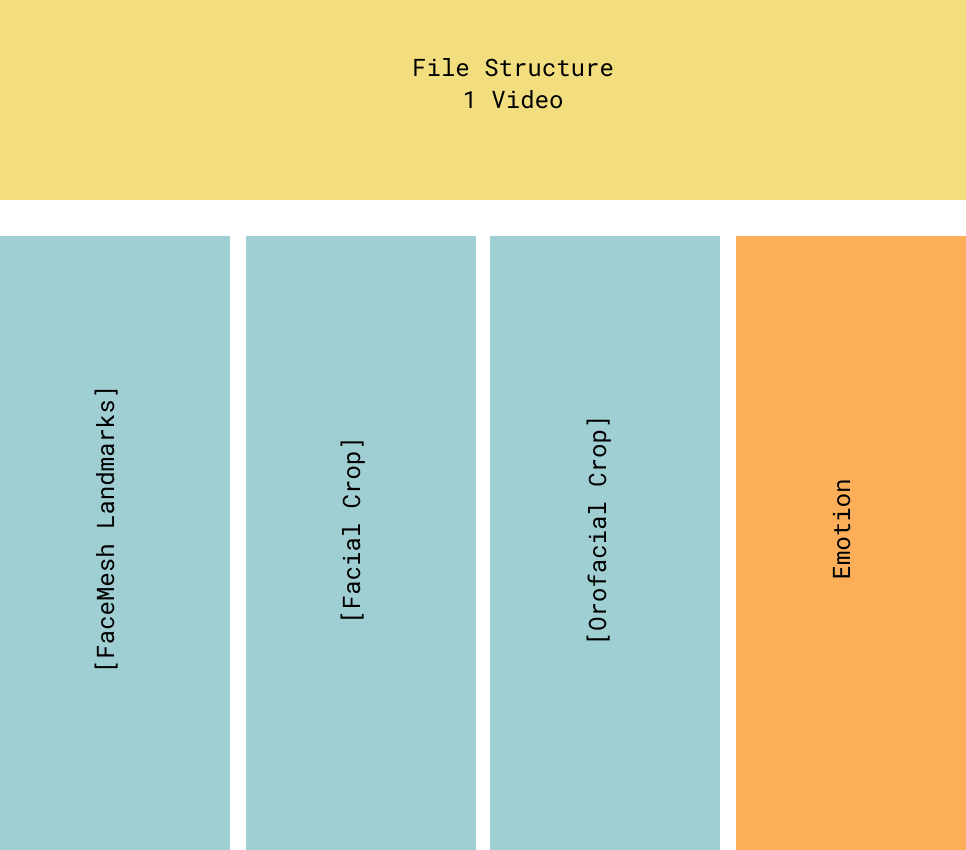
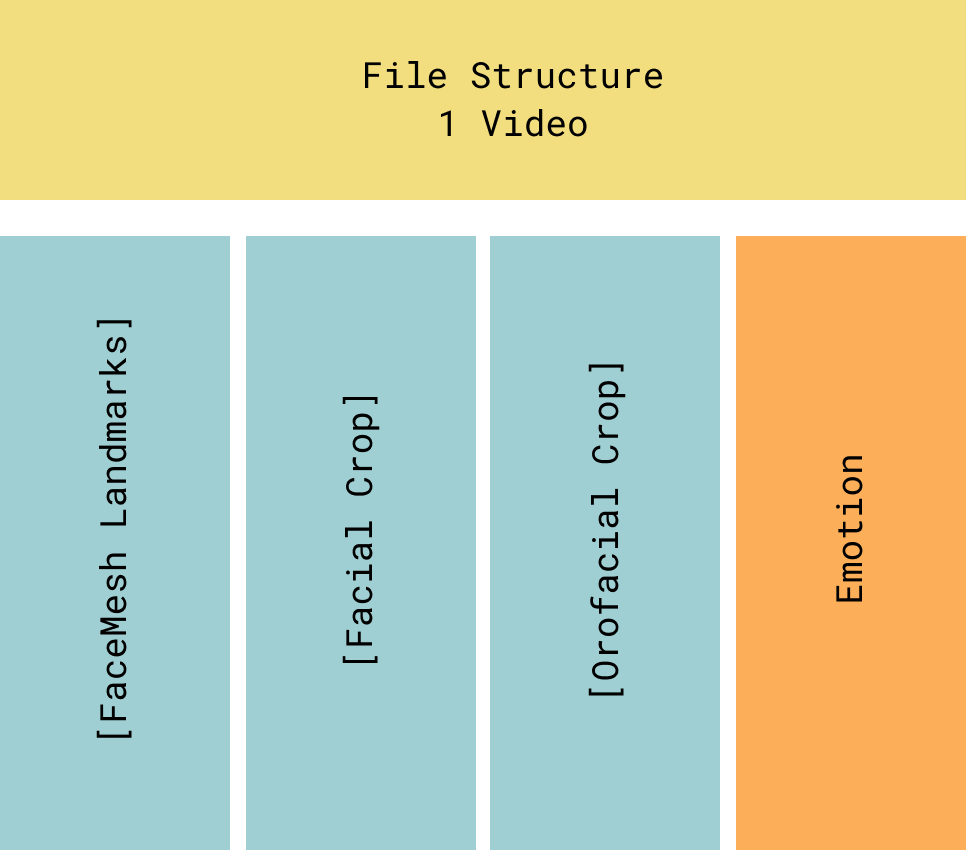
Updates from Overleaf

diff --git a/chapters/related.tex b/chapters/related.tex
@@ -54,7 +54,7 @@ Pooling layers are used to decrease the size of the layers and create a more eff
 
 \begin{figure}
     \centering
-    \includegraphics{res/pooling.pdf}
+    \includegraphics[width=0.8\textwidth]{res/png_backup/pool.png}
     \caption{An example of a MaxPooling layer working on the left matrix with a window size of 2 x 2 and a stride of 2, producing the matrix on the right.}
     \label{fig:pooling}
 \end{figure}
@@ -130,7 +130,7 @@ Deep learning models can further be divided into two categories. The first one o
 
 \begin{figure}
     \centering
-    \includegraphics[width=0.8\textwidth]{res/PipelinePrototype.pdf}
+    \includegraphics[width=0.8\textwidth]{res/png_backup/mfa.png}
     \caption{An example of a FER pipeline. After extracting landmarks from the target image, models try to extract features from the given landmarks. These can be used to detect an emotion from the input.}
     \label{fig:pipeline_fer}
 \end{figure}
@@ -142,7 +142,7 @@ The content of an act of speech can be segmented into words, syllables, and \emp
 
 \begin{figure}
     \centering
-    \includegraphics[width=0.8\textwidth]{res/phone_ex.pdf}
+    \includegraphics[width=0.8\textwidth]{res/png_backup/phoneex.png}
     \caption{A visual example of three phonemes being spoken. Their occurrence in the sentence is highlighted by their respective colour.}
     \label{fig:phoneme_ex}
 \end{figure}
@@ -194,7 +194,7 @@ We will use the MFA to align our datasets and to get a precise phoneme-to-video 
 
 \begin{figure}
     \centering
-    \includegraphics[width=0.5\textwidth]{res/mfa.pdf}
+    \includegraphics[width=0.5\textwidth]{res/png_backup/mfapipeline.png}
     \caption{A pipeline of a classic use of the MFA. An audio file, together with its transcript gets fed into the MFA. The output of the aligner is a \texttt{TextGrid} file that contains timestamp information about word and phoneme occurrence in the input audio file.}
     \label{fig:mfa}
 \end{figure}
@@ -326,7 +326,7 @@ Given that this approach requires facial landmarks and artificial mesh alrorithm
 
 \subsubsection{Lexical Compensation with LipNet}
 \label{sub:lip}
-Bursic et al. \cite{bursic2020improving} created a NN centered around lexical compensation using LipNet. While they present several approaches in their paper, we are most interested in their Lip Model, which is build by merging a LipNet embedding with an embedding of a classic VGG19 FER model. The models have also been temporalized, with several different frame batches ranging from 5 to 65 frames. Their best performing Lip Model was set at 60 frames per prediction, reaching an accuracy of 59.4\%. In comparison, the face-only RNN model that does not include lexical compensation from LipNet reached it's best accuracy at 40 frames and 48.5\%.
+Bursic et al. \cite{bursic2020improving} created a NN centered around lexical compensation using LipNet. While they present several approaches in their paper, we are most interested in their Lip Model, which is build by merging a LipNet embedding with an embedding of a classic VGG19 FER model (Figure \ref{fig:bursic_schema}). The models have also been temporalized, with several different frame batches ranging from 5 to 65 frames. Their best performing Lip Model was set at 60 frames per prediction, reaching an accuracy of 59.4\%. In comparison, the face-only RNN model that does not include lexical compensation from LipNet reached it's best accuracy at 40 frames and 48.5\%.
 
 The dataset used in this paper was RAVDESS, using the core emotions from Ekman, ignoring \emph{calm}. This makes for a good comparison to our models.
 
@@ -349,7 +349,7 @@ We will use a similar feature extractor in our experiments. Since Salman and Bus
 
 \begin{figure}
     \centering
-    \includegraphics[width=0.8\textwidth]{res/BussoSE.pdf}
+    \includegraphics[width=0.8\textwidth]{res/png_backup/styleexbusso.png}
     \caption{The schema of Salman and Busso's lexical compensator. An emotional mesh is the input to a NN, producing a neutral output mesh alongside a phoneme prediction. The difference of the input mesh and the output mesh extracts the facial movements that are produced by the emotional state of the subject.}
     \label{fig:bussose}
 \end{figure}

diff --git a/chapters/models.tex b/chapters/models.tex
@@ -18,7 +18,7 @@ To have a comparison between frame sizes and an estimation of the importance of 
 
 \begin{figure}
     \centering
-    \includegraphics[width=0.8\textwidth]{res/temporalization.pdf}
+    \includegraphics[width=0.8\textwidth]{res/png_backup/temporalisation.png}
     \caption{Temporalizing an FER model. The existing model gets wrapped in a TimeDimensional layer. That way the model produces $n$ embeddings for $n$ inputs.}
     \label{fig:temporalization}
 \end{figure}
@@ -44,7 +44,7 @@ The dataset used to train this model, like in the original paper, was CREMA-D.
 
 \begin{figure}
     \centering
-    \includegraphics[width=0.5\textwidth]{res/FExtractor.pdf}
+    \includegraphics[width=0.5\textwidth]{res/png_backup/styleex.png}
     \caption{The architecture of our final feature extractor. The emotional input mesh of a subject speaking a given phoneme $p$ gets passed to a densely connected hidden layer with 128 neurons. The output of the network is a prediction of a neutral mesh of the actor pronouncing the same phoneme $p$.}
     \label{fig:fextractor}
 \end{figure}
@@ -70,7 +70,7 @@ We end up with three main architectures, which we will train, validate, and comp
 
 \begin{figure}
     \centering
-    \includegraphics[width=0.7\textwidth]{res/FusionLayers.pdf}
+    \includegraphics[width=0.7\textwidth]{res/png_backup/fusion.png}
     \caption{The architecture of the fusion/transfer network. It is kept simple to accommodate the smaller datasets we use and follows the architecture from Bursic et al. \cite{bursic2020improving}.}
     \label{fig:fusionlayers}
 \end{figure}
@@ -84,14 +84,14 @@ The LipNet model required a 100x50x3 dimensional input of the orofacial area. Th
 Each videos data is saved as an array in a \texttt{pickle} file. The structure of the file can be seen in figure \ref{fig:pickle}.
 \begin{figure}
     \centering
-    \includegraphics[width=0.5\textwidth]{res/Pickle.pdf}
+    \includegraphics[width=0.5\textwidth]{res/png_backup/pickle.png}
     \caption{The data structure of our preprocessed files. Each file corresponds to one video. Its facial and orofacial crops, alongside with its facial landmarks are stored in arrays. The array lengths correspond to the amount of frames in each video. The underlying emotion is saved as well.}
     \label{fig:pickle}
 \end{figure}
 
 \begin{figure}
     \centering
-    \includegraphics[width=0.8\textwidth]{res/croppng.png}
+    \includegraphics[width=0.8\textwidth]{res/png_backup/crop.png}
     \caption{The input for the FER model had to be a crop of the subjects face, with a dimension of 244x244 pixels. It was important not to stretch the original crop and keep the proportions. We extended the facial bounding box to fit it to the required dimensions.}
     \label{fig:crop}
 \end{figure}

diff --git a/chapters/human.tex b/chapters/human.tex
@@ -102,7 +102,7 @@ The annotators labelled both image and video data. The images are still frames f
 \end{figure}
 
 \subsubsection{Lexical Compensation}
-The labelled images were chosen on selected phonemes \texttt{AY1}, \texttt{Z}, and \texttt{B}. We can thus compare the annotator's accuracy on the individual phonemes. As seen before in figure \ref{fig:phone_acc_ravdess}, there is a significant difference on the phonemes when our model labelled the images. The human annotators are consistently better, with an accuracy of 60\% across all phonemes. This shows that humans can compensate for the lexical content (the phonemes), which is a desirable feature to include in our models.
+The labelled images were chosen on selected phonemes \texttt{AY1}, \texttt{Z}, and \texttt{B}. We can thus compare the annotator's accuracy on the individual phonemes. As seen before in figure \ref{fig:phone_acc_ravdess}, there is a significant difference on the phonemes when our model labelled the images. The human annotators are consistently better, with an accuracy of 60\% across all phonemes (Figure \ref{fig:phone_model_human}). This shows that humans can compensate for the lexical content (the phonemes), which is a desirable feature to include in our models.
 
 \begin{figure}
     \centering

diff --git a/chapters/introduction.tex b/chapters/introduction.tex
@@ -29,7 +29,7 @@ We conclude that the \textit{temporal compensation is the main factor in creatin
 
 \begin{figure}
     \centering
-    \includegraphics[width=0.8\textwidth]{res/ravdess_mistake.pdf}
+    \includegraphics[width=0.8\textwidth]{res/png_backup/mislabel.png}
     \caption{An example of a model automatically predicting emotions from the face of a speaking subject while expressing a \texttt{sad} emotion \cite{livingstone2018ryerson}. Ideally, all frames would be correctly categorized as \texttt{sad}. Because of facial movements related to speech, the model only predicts the correct emotion twice. In this thesis we will work on creating models that are robust against predicting emotions from speaking subjects.}
     \label{fig:mislabel}
 \end{figure}
